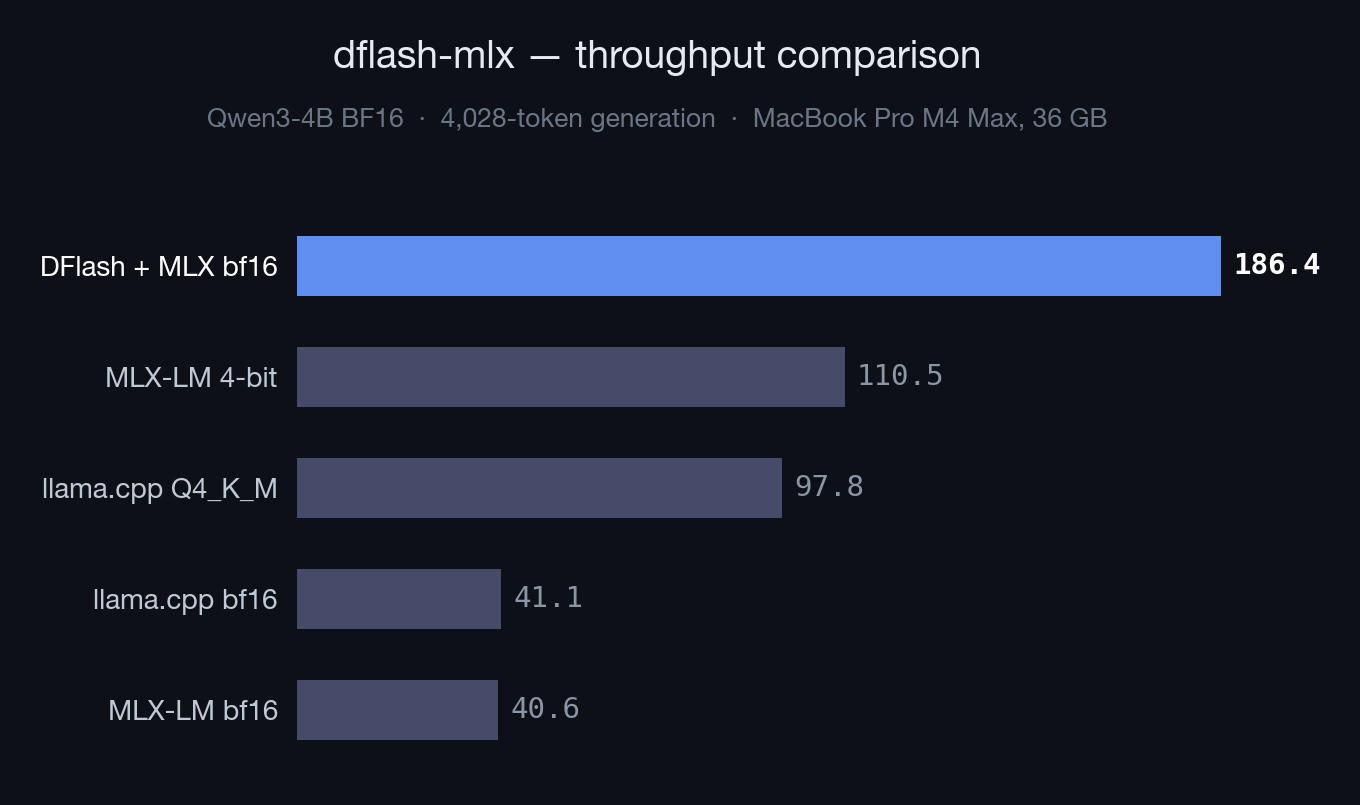
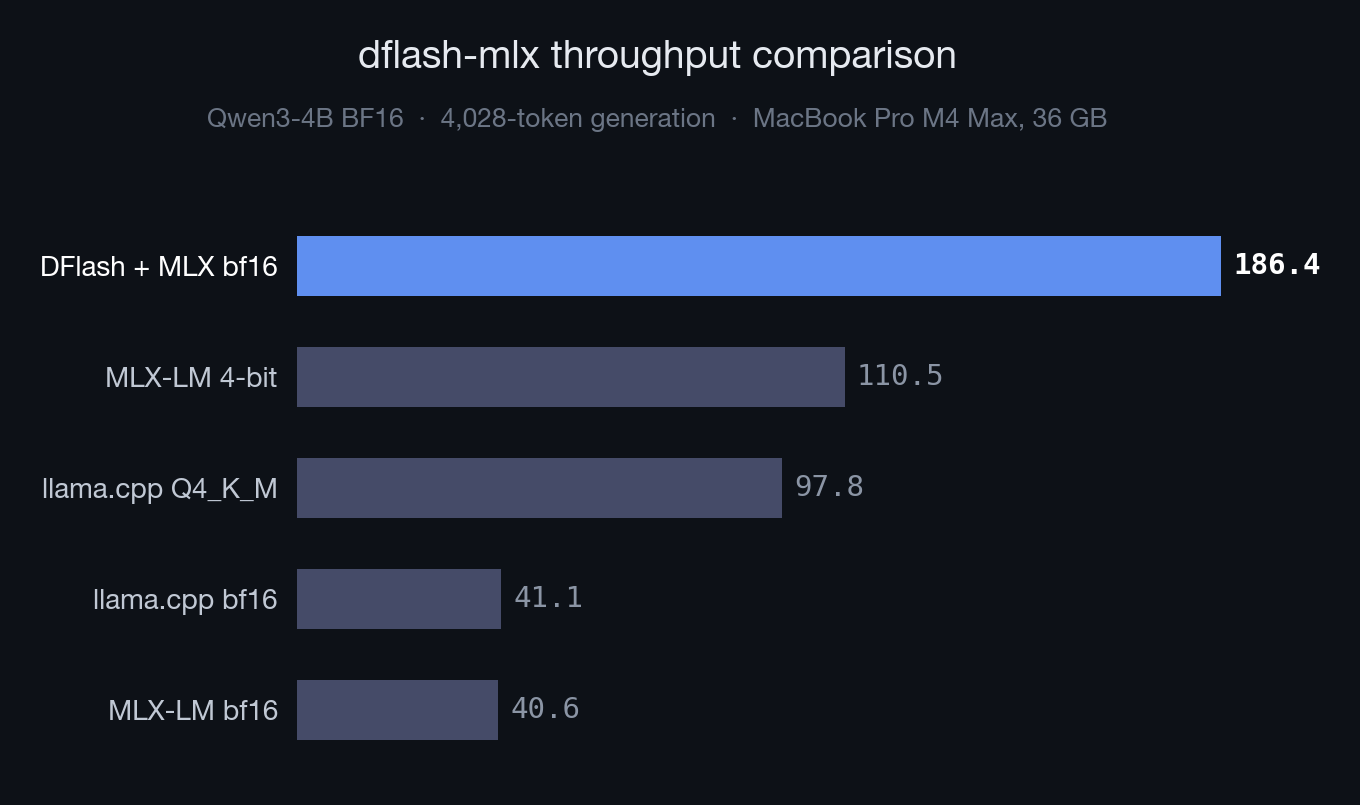
Drop em-dash from chart title

Changed region(s): [[0.2471, 0.0311, 0.7103, 0.0932]]

diff --git a/scripts/generate_benchmark_chart.py b/scripts/generate_benchmark_chart.py
@@ -70,7 +70,7 @@ ax.tick_params(left=False, bottom=False)
 fig.text(
     0.5,
     0.95,
-    "dflash-mlx \u2014 throughput comparison",
+    "dflash-mlx throughput comparison",
     fontsize=14,
     fontweight="bold",
     color="#e6eaf0",
